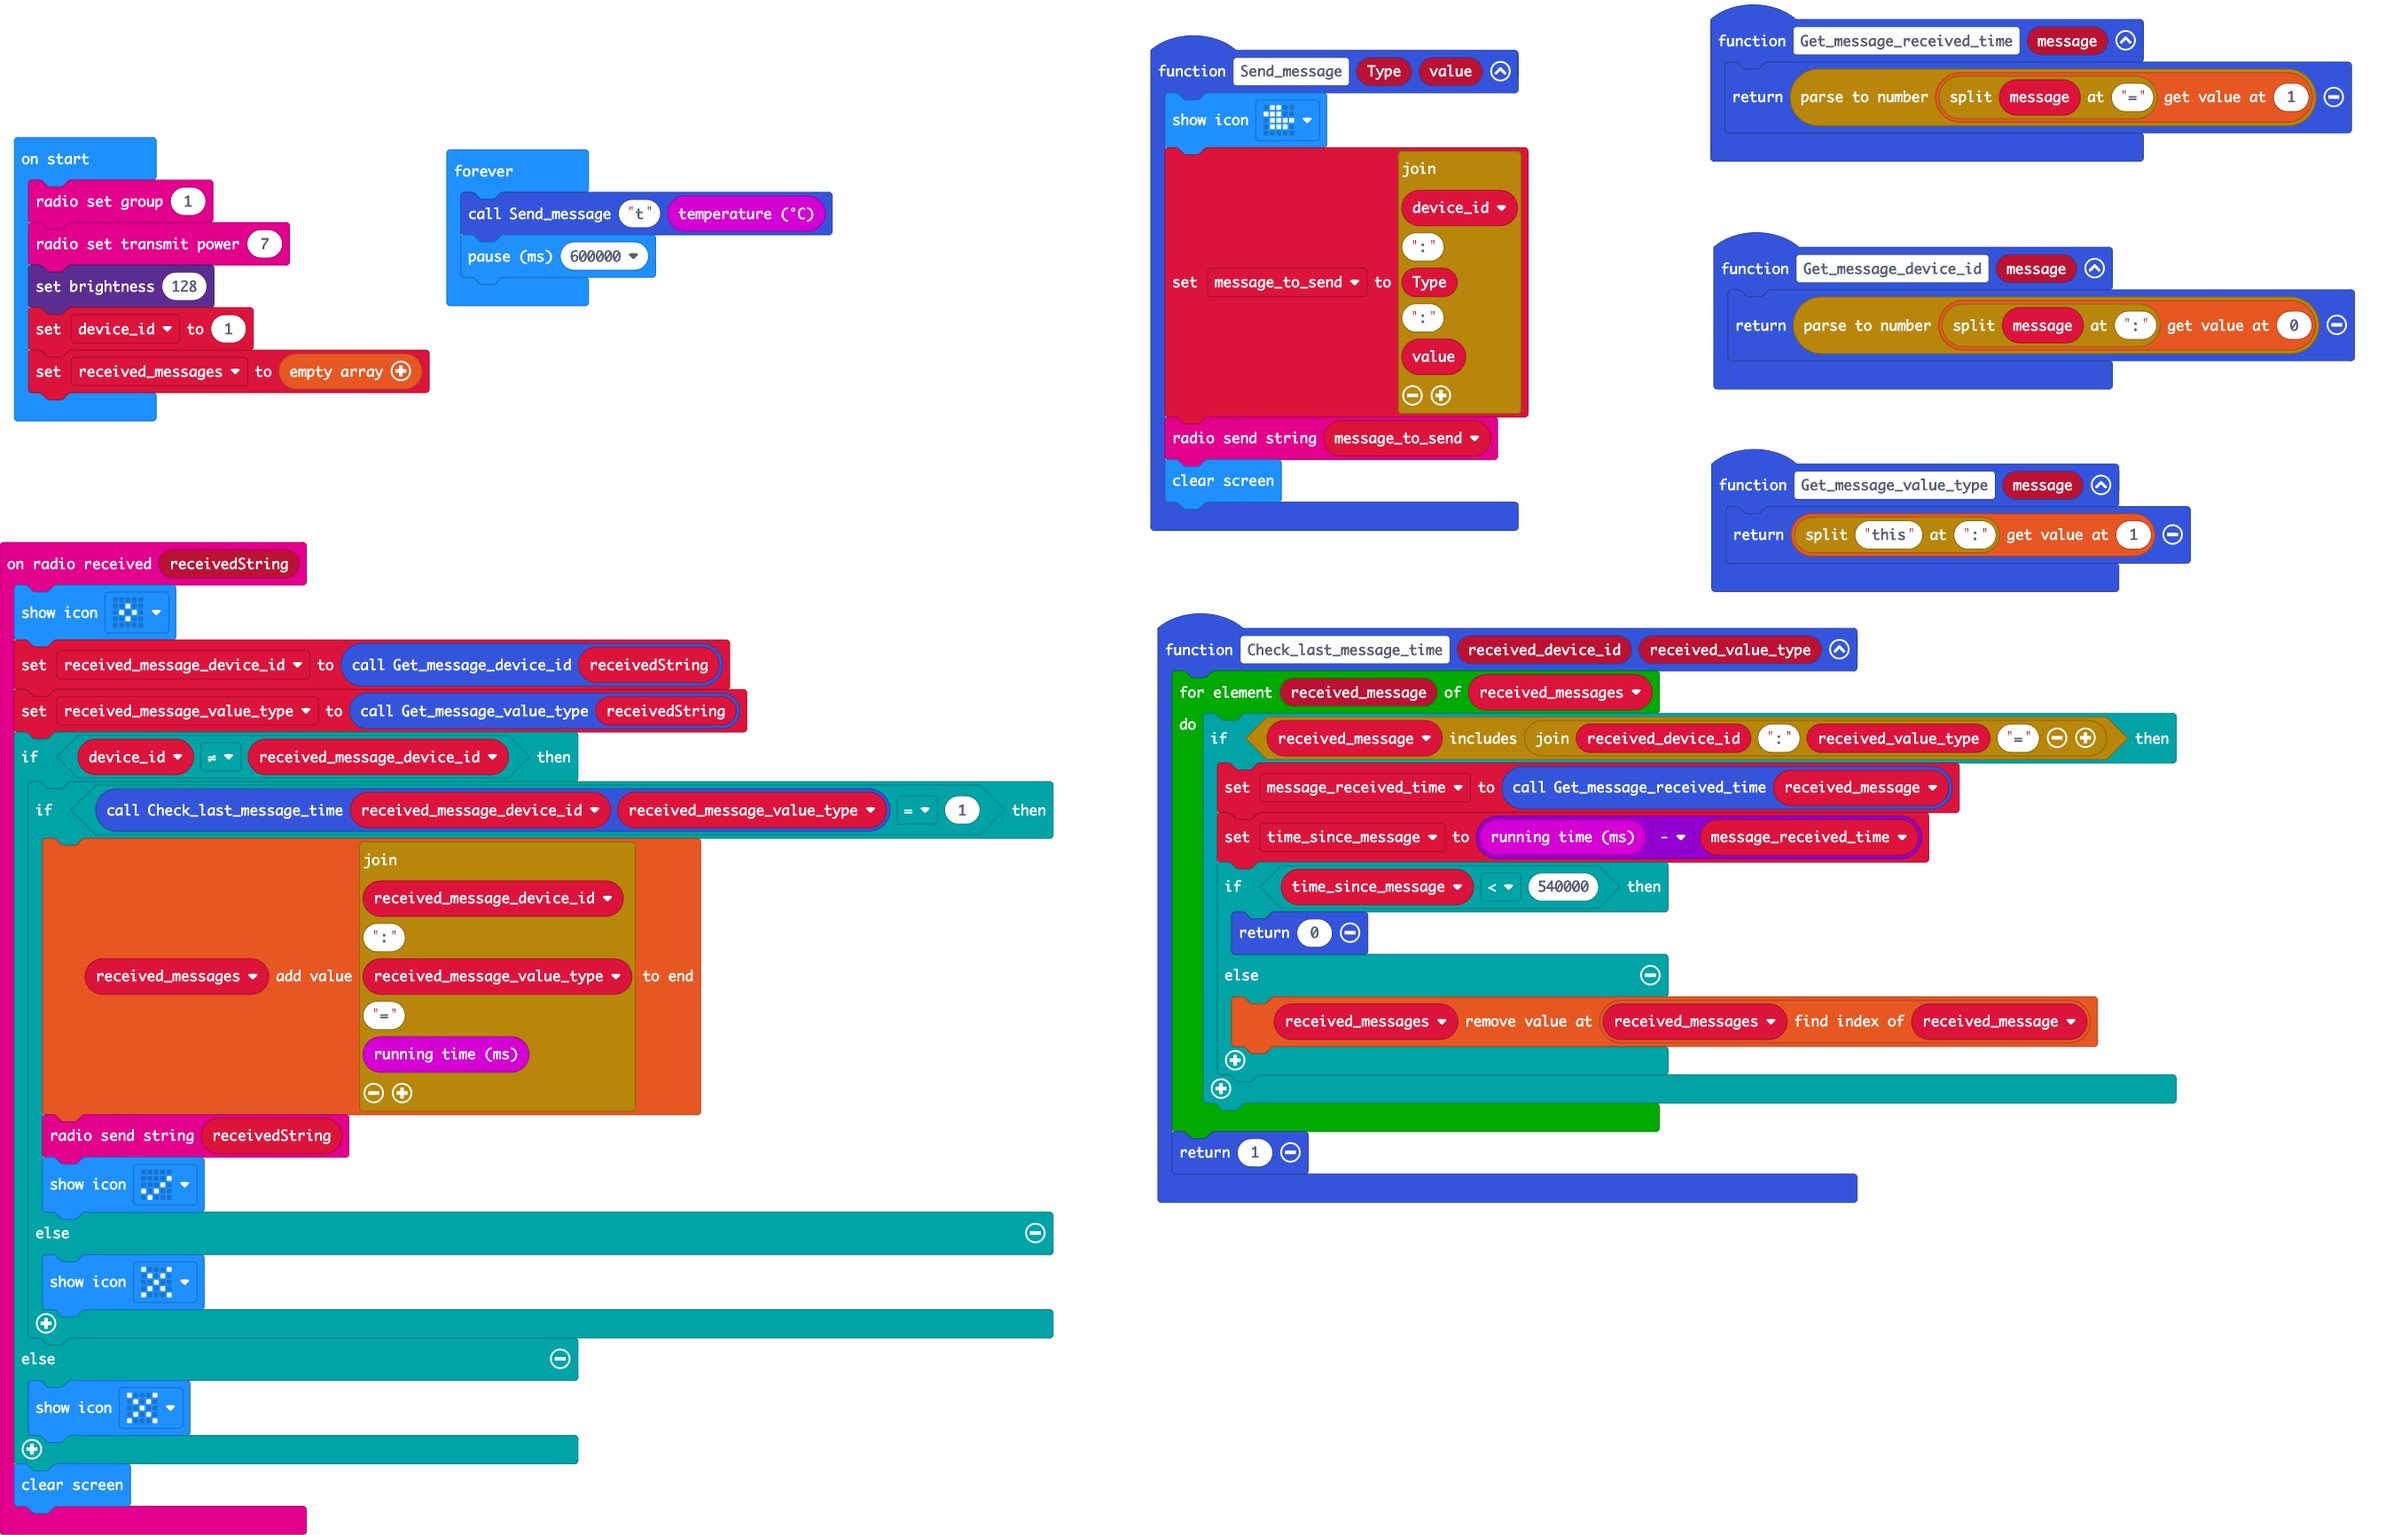
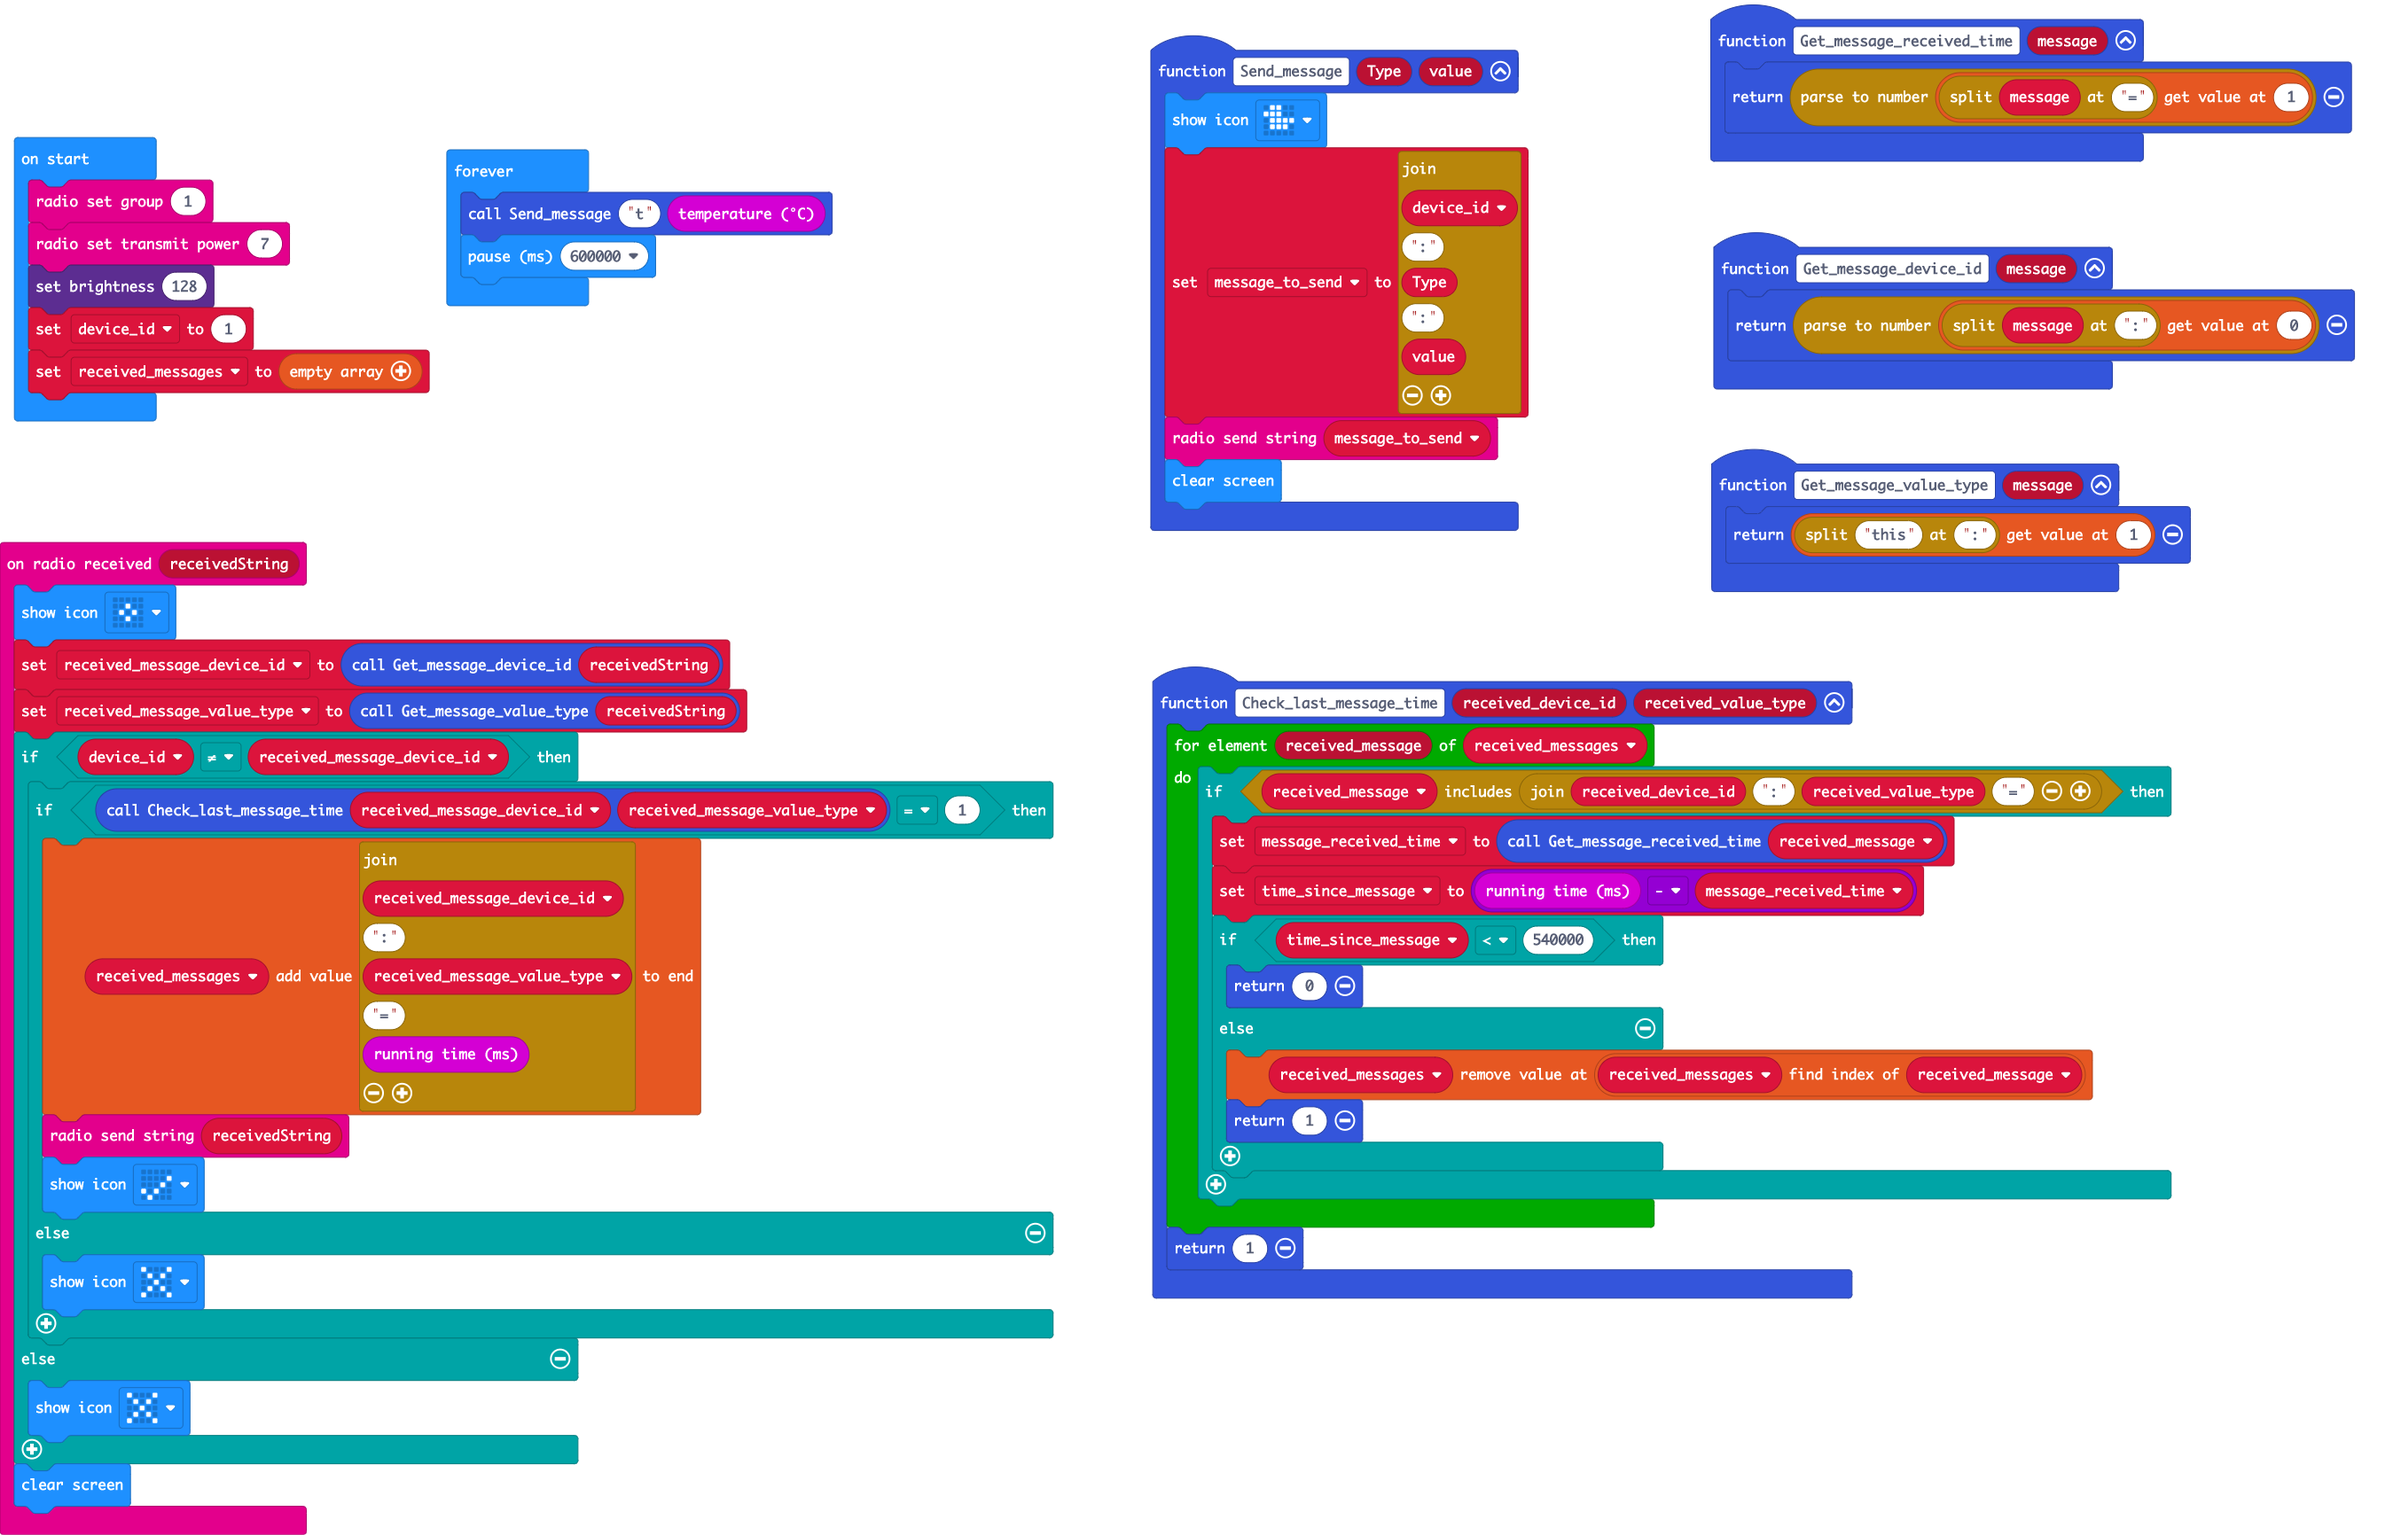
Adding shortcircuiting to speed up a loop

Changed region(s): [[0.4653, 0.4053, 0.9306, 0.873]]

diff --git a/main.ts b/main.ts
@@ -16,6 +16,7 @@ function Check_last_message_time (received_device_id: number, received_value_typ
                 return 0
             } else {
                 received_messages.removeAt(received_messages.indexOf(received_message))
+                return 1
             }
         }
     }
